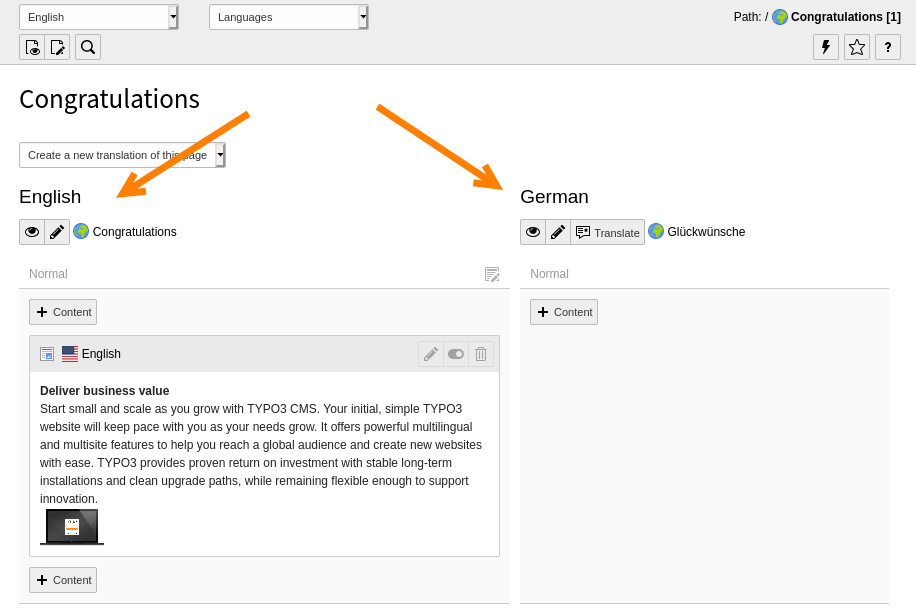
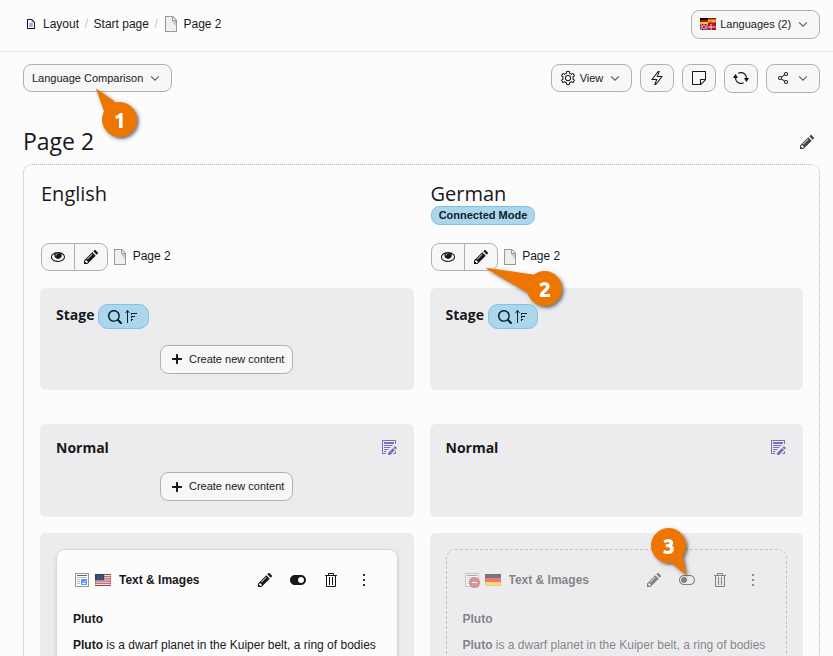
[TASK] Overhaul "Working with languages" page
Releases: main, 14.3

diff --git a/Documentation/Languages/Index.rst b/Documentation/Languages/Index.rst
@@ -7,11 +7,12 @@
 Working with languages
 ======================
 
-TYPO3 CMS comes with the built-in ability to handle web sites
-in multiple languages.
+TYPO3 CMS comes with built-in support for managing multi-language sites from a
+single installation.
 
-Detailed information about setting up a multilingual web site is
-found in the `Frontend Localization Guide <https://docs.typo3.org/permalink/t3translate:start>`_.
+..  note::
+    More detailed information can be found in the
+    `Frontend Localization Guide <https://docs.typo3.org/permalink/t3translate:start>`_.
 
 ..  youtube:: XzKBdjUV53k
 
@@ -19,113 +20,114 @@ found in the `Frontend Localization Guide <https://docs.typo3.org/permalink/t3tr
 
 ..  _languages-new:
 
-Defining a new language
-=======================
+Language Configuration
+======================
 
-Languages are defined per site.
+Languages are managed at the site level. To add or configure languages for a
+site, navigate to :guilabel:`Site Management > Sites`.
 
-Adding a new language is done in the :guilabel:`Site Management > Sites`
-module, which is restricted to admin users. Detailed information on how to
-configure your site to add more languages can be found in the :ref:`Site
-Handling <t3coreapi:sitehandling-basics>` documentation.
-
-The `Introduction Package's <https://extensions.typo3.org/extension/introduction/>`__
-default languages are English, Danish and German languages.
+..  note::
+    Managing site languages requires administrative privileges. For detailed setup
+    instructions, see the :ref:`Site Handling <t3coreapi:sitehandling-basics>`
+    documentation.
 
 ..  _Translation-modes:
 
-Translation modes
-=================
+Translation strategies
+======================
 
-When you choose to translate content, TYPO3 offers two methods:
+When translating your content, TYPO3 supports two distinct localization
+workflows: a :ref:`connected <languages-translation-mode-connected>` and
+an :ref:`independent <languages-translation-mode-copy>` mode
 
-*   :guilabel:`Translate` - Use this option when you have a strict translation workflow
-    or content structure.
+..  _languages-translation-mode-connected:
 
-    TYPO3 will create a direct connection between the
-    original language and the translation. When the original language content
-    is changed, the translations are marked as out-of-date and you can see the
-    changes in the original language when editing a translation.
+Translate (connected)
+---------------------
 
-    This mode means that TYPO3 can help you maintain consistency when you have
-    separate teams localizing content. This mode also allows TYPO3 to
-    automatically mark translated content for review, and notify translators
-    when the original text changes.
-*   :guilabel:`Copy` - Use this option when you would like the content structure to be
-    free and independent between languages.
+Use this mode if your site requires a strict, parallel content structure across
+all languages. TYPO3 maintains a direct link between the source element and its
+translation.
 
-    TYPO3 creates a copy of the content in the target language. No connection
-    is maintained between the original and the translation, which means
-    subsequent versions of the translations can easily diverge from the
-    original.
+*   Out-of-date flags: Updates to the source text automatically flag
+    translations as out-of-date.
+*   Side-by-side editing: Editors can view original source changes while
+    updating the translation.
+*   Review workflows: Supports automated notifications and review tracking for
+    localization teams.
+
+..  _languages-translation-mode-copy:
+
+Copy (independent)
+------------------
+
+Use this mode if your localized pages require unique layouts, different content
+structures, or completely independent text.
+
+*   Decoupled content: TYPO3 creates a standalone copy of the source content in
+    the target language.
+*   Structural freedom: No link is maintained, allowing the localized page
+    structure to diverge entirely from the source.
+
 
 ..  _languages-translations:
 
-Working with translations
-=========================
+Localizing a page
+=================
 
-#.  Working with the `Introduction Package <https://extensions.typo3.org/extension/introduction/>`__,
-    in the :guilabel:`Content > Layout` module, go to the "Congratulations" home page.
-#.  Using the menu in the docheader, switch to the "Languages" view.
+Follow these steps to translate a page and its content elements.
 
-    ..  figure:: ../Images/ManualScreenshots/Language/LanguagesPageLanguages.png
-        :alt: The "Languages" view of the Content Layout module
+
+Create the page translation
+---------------------------
+
+#.  Navigate to the :guilabel:`Content > Layout` module and select the page you
+    want to translate.
+#.  Locate the :guilabel:`Create new translation` dropdown and select
+    the target language that you want to translate into, making sure the target
+    language has been configured in :guilabel:`Site Management > Sites`. This
+    will open the translation wizard.
+
+    ..  figure:: ../Images/ManualScreenshots/Language/PageLanguages.png
+        :alt: Creating a translation of a page
         :zoom: gallery
 
-#.  In the drop-down menu "Create a new translation of this page", choose a
-    language, let's say German in this case. The page properties displays for
-    the German version of the page.
-#.  Type the German translation in the :guilabel:`Page Title` field.
+#.  Click through the translation wizard, choosing a translation mode of
+    :guilabel:`Translate` or :guilabel:`Copy`
+    (see :ref:`Translation strategies <Translation-modes>`) for each content
+    element on the page until you see :guilabel:`Localization completed`. The
+    last screen of the wizard shows a summary of what will be translated.
+    Click on the :guilabel:`Finish` button.
 
-    ..  figure:: ../Images/ManualScreenshots/Language/LanguagesNewPageTranslation.png
-        :alt: Creating a new page translation
+    ..  figure:: ../Images/ManualScreenshots/Language/LanguagesTranslateContentElements.png
+        :alt: The translation wizard
         :zoom: gallery
 
-#.  Save and close the page. The screen now displays two versions of the content
-    elements showing the default language and the German version side by side.
+#.  Click on :guilabel:`Language Comparison` (1). The screen now
+    displays two versions of the page - the default language version on the left
+    and the target language version on the right. Translate **page** fields such
+    as the title by clicking on the pencil icon(2) and then typing in your
+    translations. The new target language **content elements** are hidden in the
+    frontend by default. **Enable**(3) each content element after you have
+    finished translating its text.
 
     ..  figure:: ../Images/ManualScreenshots/Language/LanguagesPageVersions.png
-        :alt: Viewing languages side by side in the page module
+        :alt: Viewing translated pages side by side in the content layout module
         :zoom: gallery
-
-#.  In the German column, click the :guilabel:`Translate` button for a content
-    element. The :guilabel:`Localize` wizard displays.
-
-    ..  figure:: ../Images/ManualScreenshots/Language/LanguagesTranslateContentElementsStep1.png
-        :alt: First step of the Localize wizard
-        :zoom: gallery
-
-#.  For this example, click the :guilabel:`Translate` button then click
-    :guilabel:`Next`.
-    Step 2 of the wizard will pass by automatically since we are translating in
-    a single language.
-    Step 3 provides a summary of the elements that will be translated.
-#.  Click :guilabel:`Next` to complete the wizard.
-
-    The German version of the content element is now prepended with *[Translate
-    to German:]*. The element is hidden by default, so that incomplete
-    translations aren't displayed on the frontend until you are ready.
-
-    ..  figure:: ../Images/ManualScreenshots/Language/LanguagesNewContentTranslation.png
-        :alt: A newly created content element translation
-        :zoom: gallery
-
-        A newly created content element translation
 
 ..  _Adjusting-the-View:
 
-Adjusting the view
+Changing the view
 ==================
 
-The :guilabel:`Content > Layout` module may now seem cluttered, with one column for each
-translation. You can view a single language at a time by switching back to the
-"Columns" mode and choosing a specific language in the docheader.
+Change the view from side-by-side pages to a single language by clicking on
+:guilabel:`Layout` mode and then choosing the language you want to see(1).
 
-..  figure:: ../Images/ManualScreenshots/Language/LanguagesColumnModeWithTranslation.png
-    :alt: The "Columns" mode displaying a translation
+..  figure:: ../Images/ManualScreenshots/Language/LanguagesSingleLanguageLayout.png
+    :alt: The Layout button and language dropdown
     :zoom: gallery
 
-    The "Columns" mode displaying a translation
+    Buttons to change the view on multilingual pages
 
 ..  _next-steps-l10n:
 
@@ -133,7 +135,7 @@ Next steps
 ==========
 The :ref:`Frontend Localization Guide <typo3/guide-frontendlocalization:start>`
 contains detailed information about setting up a multilingual web site and how to
-actually do the translation and localization.
+do translation and localization.
 
-The :ref:`Site Handling <t3coreapi:sitehandling-basics>` documentation contains
-information about how to configure your site to add more languages.
+:ref:`Site Handling <t3coreapi:sitehandling-basics>` contains
+information about how to add more languages to you site configuration.
